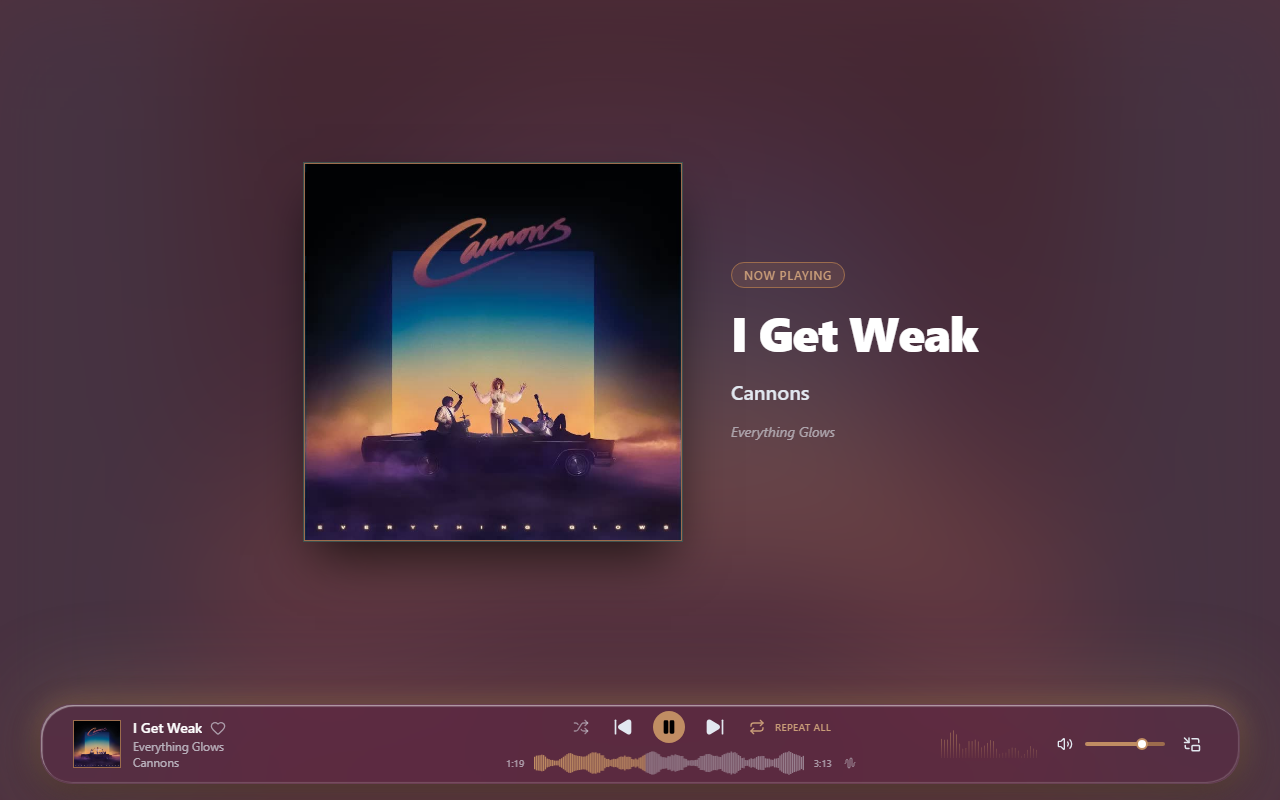
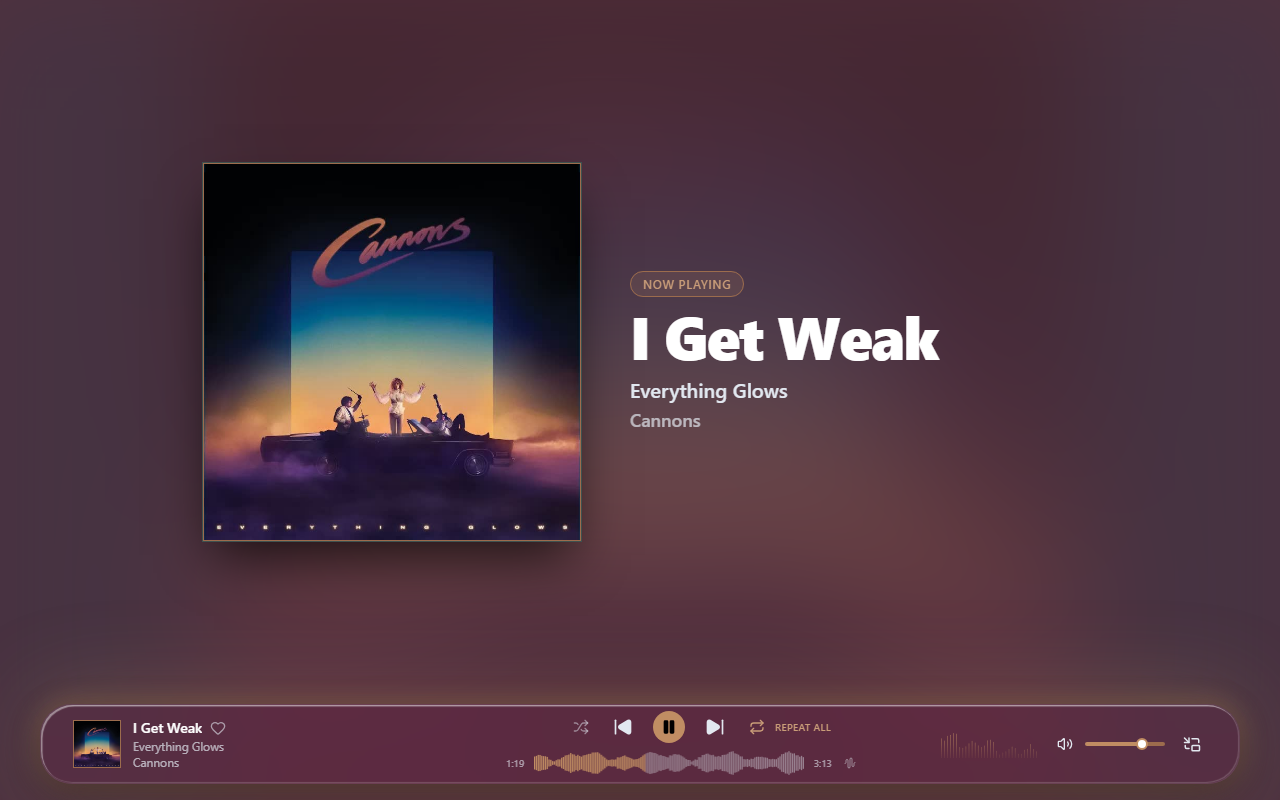
docs: add v1.6.0 release notes and refresh immersive view screenshots
Regenerates now-playing screenshots to reflect the reordered/tightened
typography from the immersive view fix.

Changed region(s): [[0.1562, 0.1875, 0.7812, 0.7188], [0.5625, 0.5312, 0.6562, 0.5625], [0.3125, 0.6562, 0.3438, 0.6875]]

diff --git a/docs/release-notes/v1.6.0.md b/docs/release-notes/v1.6.0.md
@@ -1,0 +1,14 @@
+# v1.6.0
+
+A small fix-focused release.
+
+### 🐛 Fixes
+- **Album Artist no longer forced to "Various Artists"** when editing a compilation-flagged album or track that actually has a real album artist name ([#690](https://github.com/esoltys/luminous/issues/690)).
+- **Immersive (album-art) view typography** now matches the player bar's title/album/artist order and hierarchy, and no longer shifts the cover art's centered position depending on text length ([#701](https://github.com/esoltys/luminous/issues/701)).
+- **Custom playlist song table** background is now consistent, and a blurred artifact no longer sticks on row hover ([#665](https://github.com/esoltys/luminous/issues/665)).
+- **AcoustID API key no longer logged in cleartext** ([#656](https://github.com/esoltys/luminous/issues/656)).
+
+### 🛠 Internal
+- Removed Flatpak/Flathub packaging and submission automation entirely — Flathub's Generative AI policy prohibits AI-automated submission PRs, which is how the prior submission was carried out.
+- Removed winget manifest automation and CI checks; Luminous's existing winget listing is unaffected.
+- Added a `/issue` skill for milestone-aware issue pickup (development tooling only).
